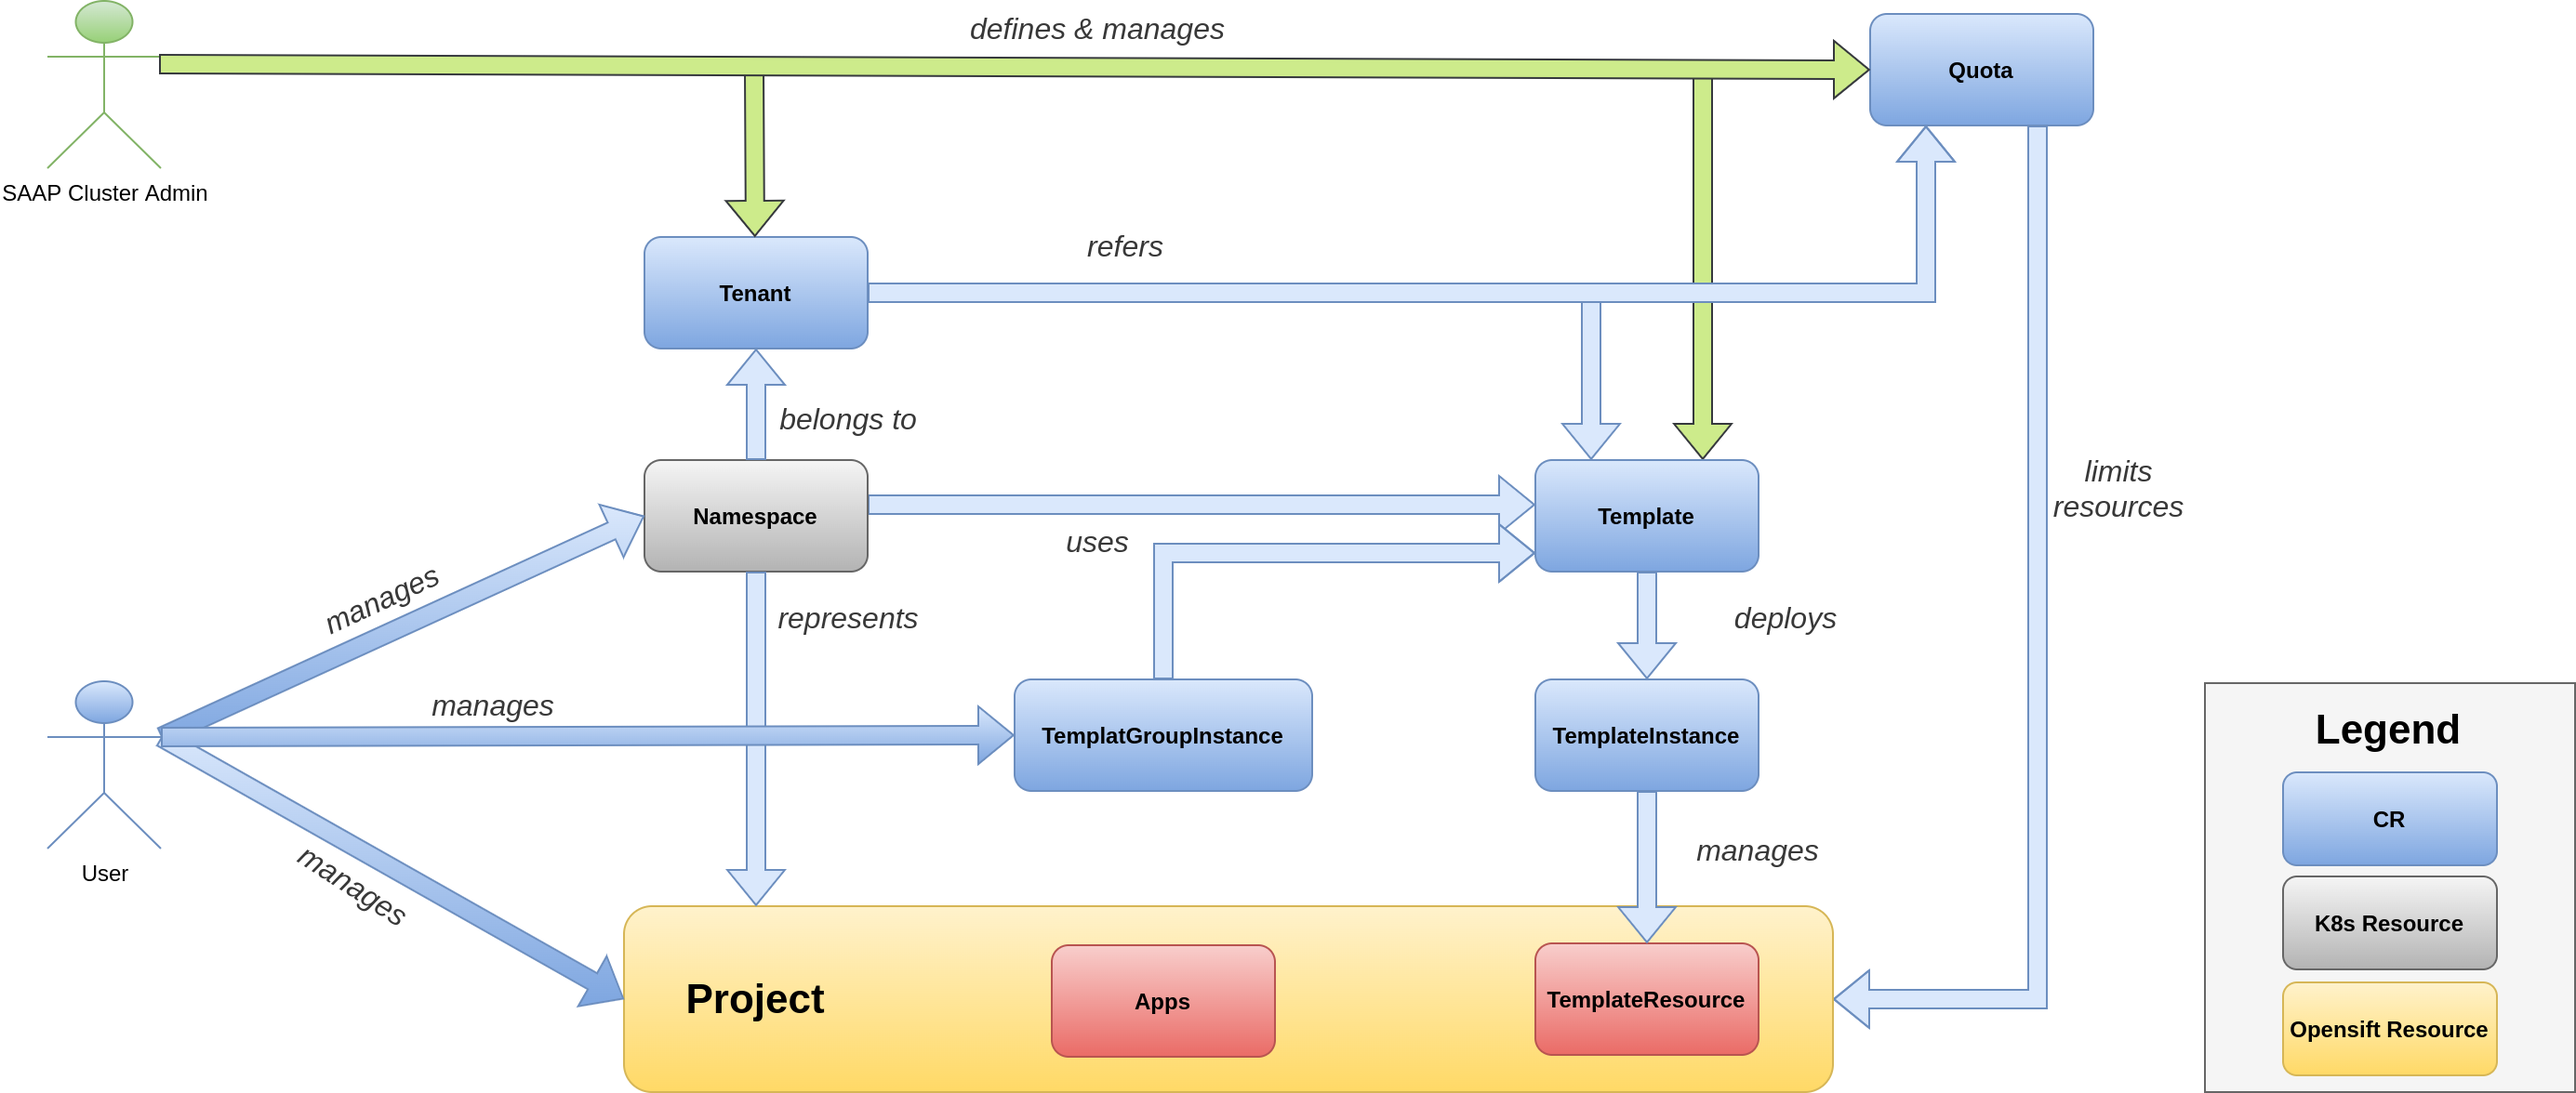
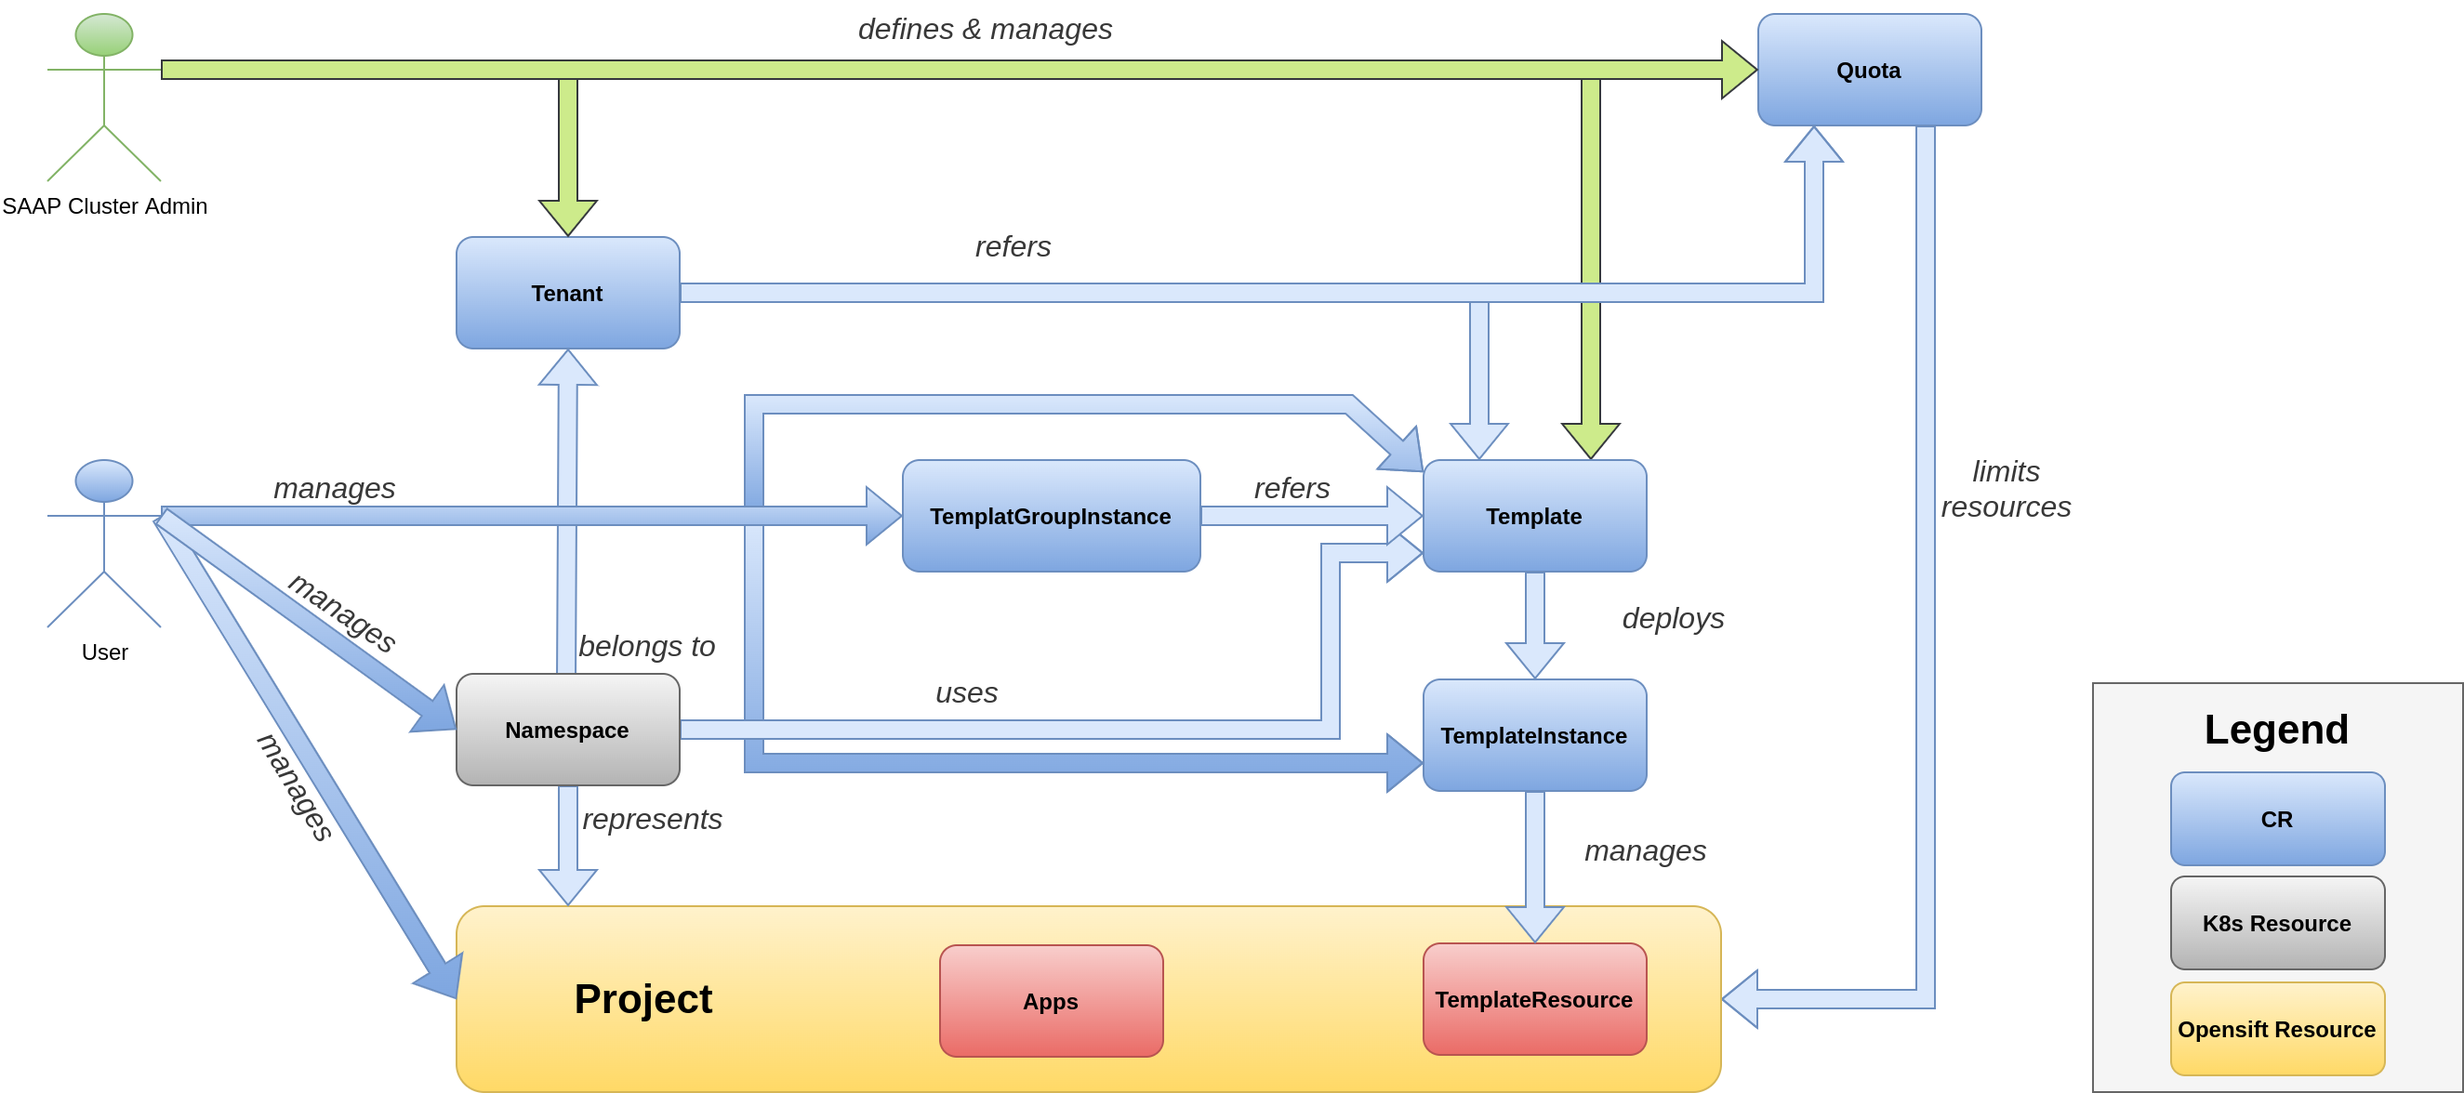
Restructure roles and update sca

diff --git a/.vuepress/config.js b/.vuepress/config.js
@@ -183,8 +183,11 @@ module.exports = {
         children: ["/content/sre/support/support.md"],
       },
       {
-        title: "Multi-tenancy",
-        children: ["/content/sre/tenant-operator/overview.md"],
+        title: "Tenant-Operator",
+        children: [
+          "/content/sre/tenant-operator/overview.md",
+          "/content/sre/tenant-operator/roles.md"
+        ],
       },
       {
         title: "Frequently Asked Questions",

diff --git a/content/sre/tenant-operator/roles.md b/content/sre/tenant-operator/roles.md
@@ -1,0 +1,29 @@
+# Roles
+
+## SAAP Cluster Admin
+
+![image](./images/tenant-operator-sca-overview.png)
+fig 1. Shows how SAAP Cluster Admin manages tenants using Tenant Operator
+
+SAAP Cluster Admin are admins of a cluster. They are responsible for the configuration and maintainance of tenants and quotas. More more details [SAAP ClusterAdmin](https://docs.cloud.stakater.com/content/sre/authentication-authorization/saap-authorization-roles.html#_1-saap-cluster-admin-sca)
+
+## Owner
+
+![image](./images/tenant-operator-owner-overview.png)
+fig 2. Shows how tenant owners manage there tenant using Tenant Operator
+
+Owner role will have admin access on there namespaces + they can also create new namespaces
+
+## Edit
+
+![image](./images/tenant-operator-edit-overview.png)
+fig 3. Shows editors role in a tenant using Tenant Operator
+
+Edit role will have edit access on there namespaces + except for Role and RoleBinding
+
+## View
+
+![image](./images/tenant-operator-view-overview.png)
+fig 4. Shows viewers role in a tenant using Tenant Operator
+
+view role will have view access on there namespace
